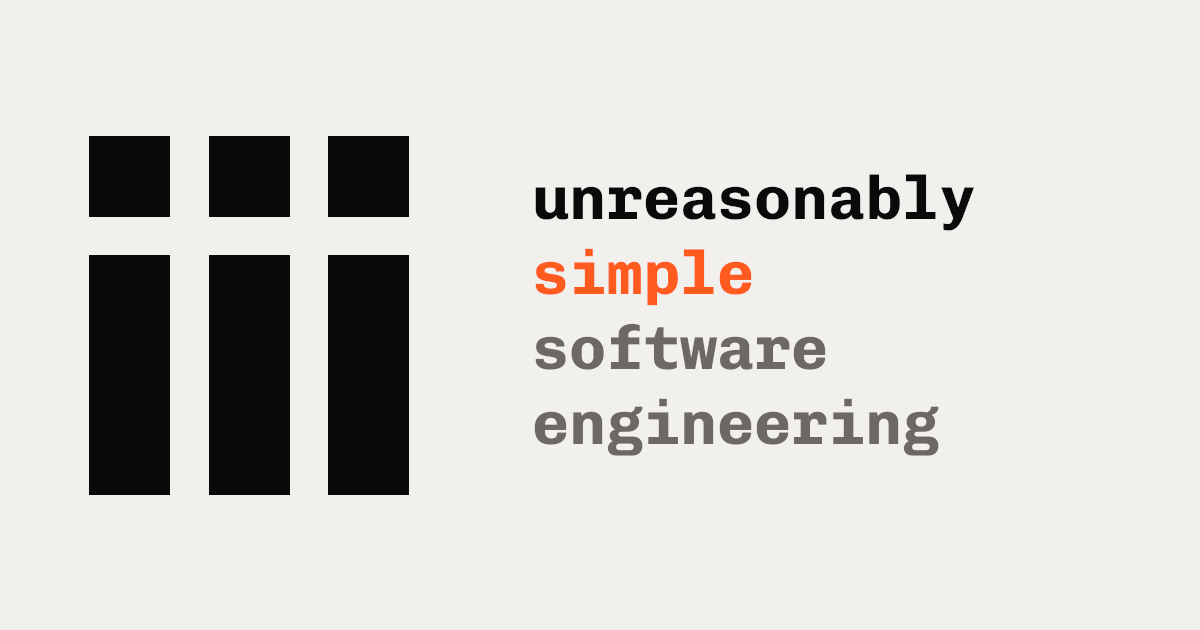
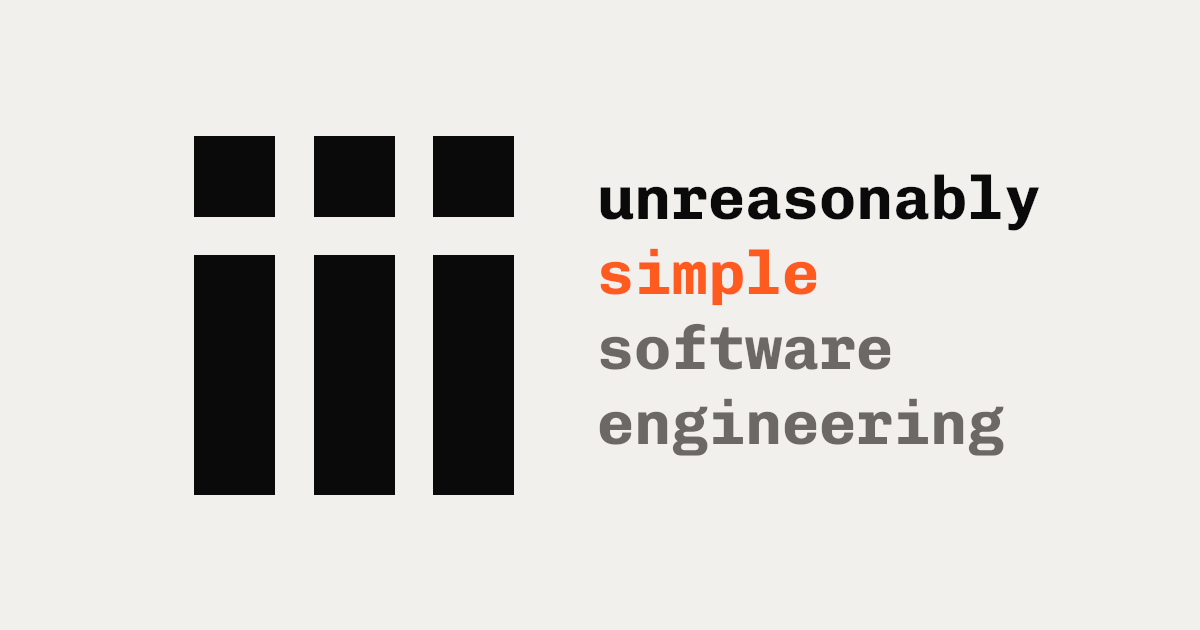
fix(website): mobile console decluttering, theme-aware footer email, refreshed og-image
- console "any log" panels: per-panel mobile (<=1024px) overrides hide
  dense right-side details (worker meta, fn/trigger/state asides, states
  groups, streams ws addr, traces bars, logs toolbar) and reflow queue
  rows so progress meters drop below the meta line; trims config to
  stats + worker-pools.
- footer email: replace hardcoded white rgba border/placeholder/submitted
  colors with color-mix(var(--bg)) so contrast adapts in dark mode.
- og-image refresh.

diff --git a/website/index.html b/website/index.html
@@ -3157,6 +3157,55 @@
     }
   }
 
+  /* ============= CONSOLE — mobile per-panel decluttering ============= */
+  @media (max-width: 1024px){
+    /* Workers: hide right-side metadata (host · pid · fn count · age) */
+    .cs-panel[data-idx="0"] .cs-row-worker .cs-row-meta{ display:none; }
+
+    /* Functions: hide right-side invoke dialog, list spans full width */
+    .cs-panel[data-idx="1"] .cs-card-split{ grid-template-columns: 1fr; }
+    .cs-panel[data-idx="1"] .cs-fn-side{ display:none; }
+
+    /* Triggers: same pattern as Functions */
+    .cs-panel[data-idx="2"] .cs-card-split{ grid-template-columns: 1fr; }
+    .cs-panel[data-idx="2"] .cs-fn-side{ display:none; }
+
+    /* States: hide groups column AND right-side detail aside */
+    .cs-panel[data-idx="3"] .cs-card-split.states{ grid-template-columns: 1fr; }
+    .cs-panel[data-idx="3"] .cs-states-groups,
+    .cs-panel[data-idx="3"] .cs-fn-side{ display:none; }
+
+    /* Streams: drop the ws://… address chip, let stats wrap */
+    .cs-panel[data-idx="4"] .cs-card-bar.streams{ gap:12px; flex-wrap:wrap; }
+    .cs-panel[data-idx="4"] .cs-card-bar.streams .cs-card-bar-right{ display:none; }
+
+    /* Queues: progress meter onto its own row below name/meta */
+    .cs-panel[data-idx="5"] .cs-row-queue{
+      grid-template-columns: 24px 1fr auto;
+      grid-template-areas:
+        "ico  name chev"
+        "ico  meta chev"
+        "meter meter meter";
+      row-gap:6px;
+    }
+    .cs-panel[data-idx="5"] .cs-row-queue > .cs-row-glyph  { grid-area:ico; }
+    .cs-panel[data-idx="5"] .cs-row-queue > .cs-row-name   { grid-area:name; }
+    .cs-panel[data-idx="5"] .cs-row-queue > .cs-row-meta   { grid-area:meta; }
+    .cs-panel[data-idx="5"] .cs-row-queue > .cs-row-chev   { grid-area:chev; }
+    .cs-panel[data-idx="5"] .cs-row-queue > .cs-queue-meter{ grid-area:meter; width:100%; }
+
+    /* Traces: hide colored span bars, give name + ts the room */
+    .cs-panel[data-idx="6"] .cs-trace-row{ grid-template-columns: 14px 1fr auto; }
+    .cs-panel[data-idx="6"] .cs-trace-bars{ display:none; }
+
+    /* Logs: hide the toolbar row (filters + search + severity legend) */
+    .cs-panel[data-idx="7"] .cs-card-bar{ display:none; }
+
+    /* Config: keep stats strip + worker-pools; hide service URL cards and trigger-type pills */
+    .cs-panel[data-idx="8"] .cs-config-row{ display:none; }
+    .cs-panel[data-idx="8"] .cs-config-section:first-of-type{ display:none; }
+  }
+
   /* ============= FOOTER ============= */
   .foot{
     position:relative;
@@ -3234,7 +3283,7 @@
   .foot-email .row{
     display:flex; align-items:center; width:100%;
     position:relative;
-    border-bottom:1px solid rgba(255,255,255,0.32);
+    border-bottom:1px solid color-mix(in srgb, var(--bg) 32%, transparent);
     transition: border-color .15s;
   }
   .foot-email .row:focus-within{ border-bottom-color:var(--accent); }
@@ -3246,9 +3295,9 @@
     font-size:13px;
     color:var(--bg);
   }
-  .foot-email input::placeholder{ color:rgba(255,255,255,0.5); }
+  .foot-email input::placeholder{ color:color-mix(in srgb, var(--bg) 50%, transparent); }
   .foot-cta .foot-email input{ color:var(--bg); }
-  .foot-cta .foot-email input::placeholder{ color:rgba(255,255,255,0.5); }
+  .foot-cta .foot-email input::placeholder{ color:color-mix(in srgb, var(--bg) 50%, transparent); }
   .foot-email button{
     position:absolute; right:0; top:50%; transform:translateY(-50%);
     appearance:none; background:transparent; border:0; cursor:pointer;
@@ -3259,7 +3308,7 @@
   }
   .foot-email button:hover{ color:var(--accent); }
   .foot-email button svg{ width:16px; height:16px; }
-  .foot-email.submitted{ padding:10px 2px; color:rgba(255,255,255,0.65); font-size:13px; }
+  .foot-email.submitted{ padding:10px 2px; color:color-mix(in srgb, var(--bg) 65%, transparent); font-size:13px; }
   .foot-email.submitted .row{ display:none; }
   .foot-email.submitted .thanks{ display:flex; align-items:center; gap:8px; justify-content:center; }
   .foot-email .thanks{ display:none; }